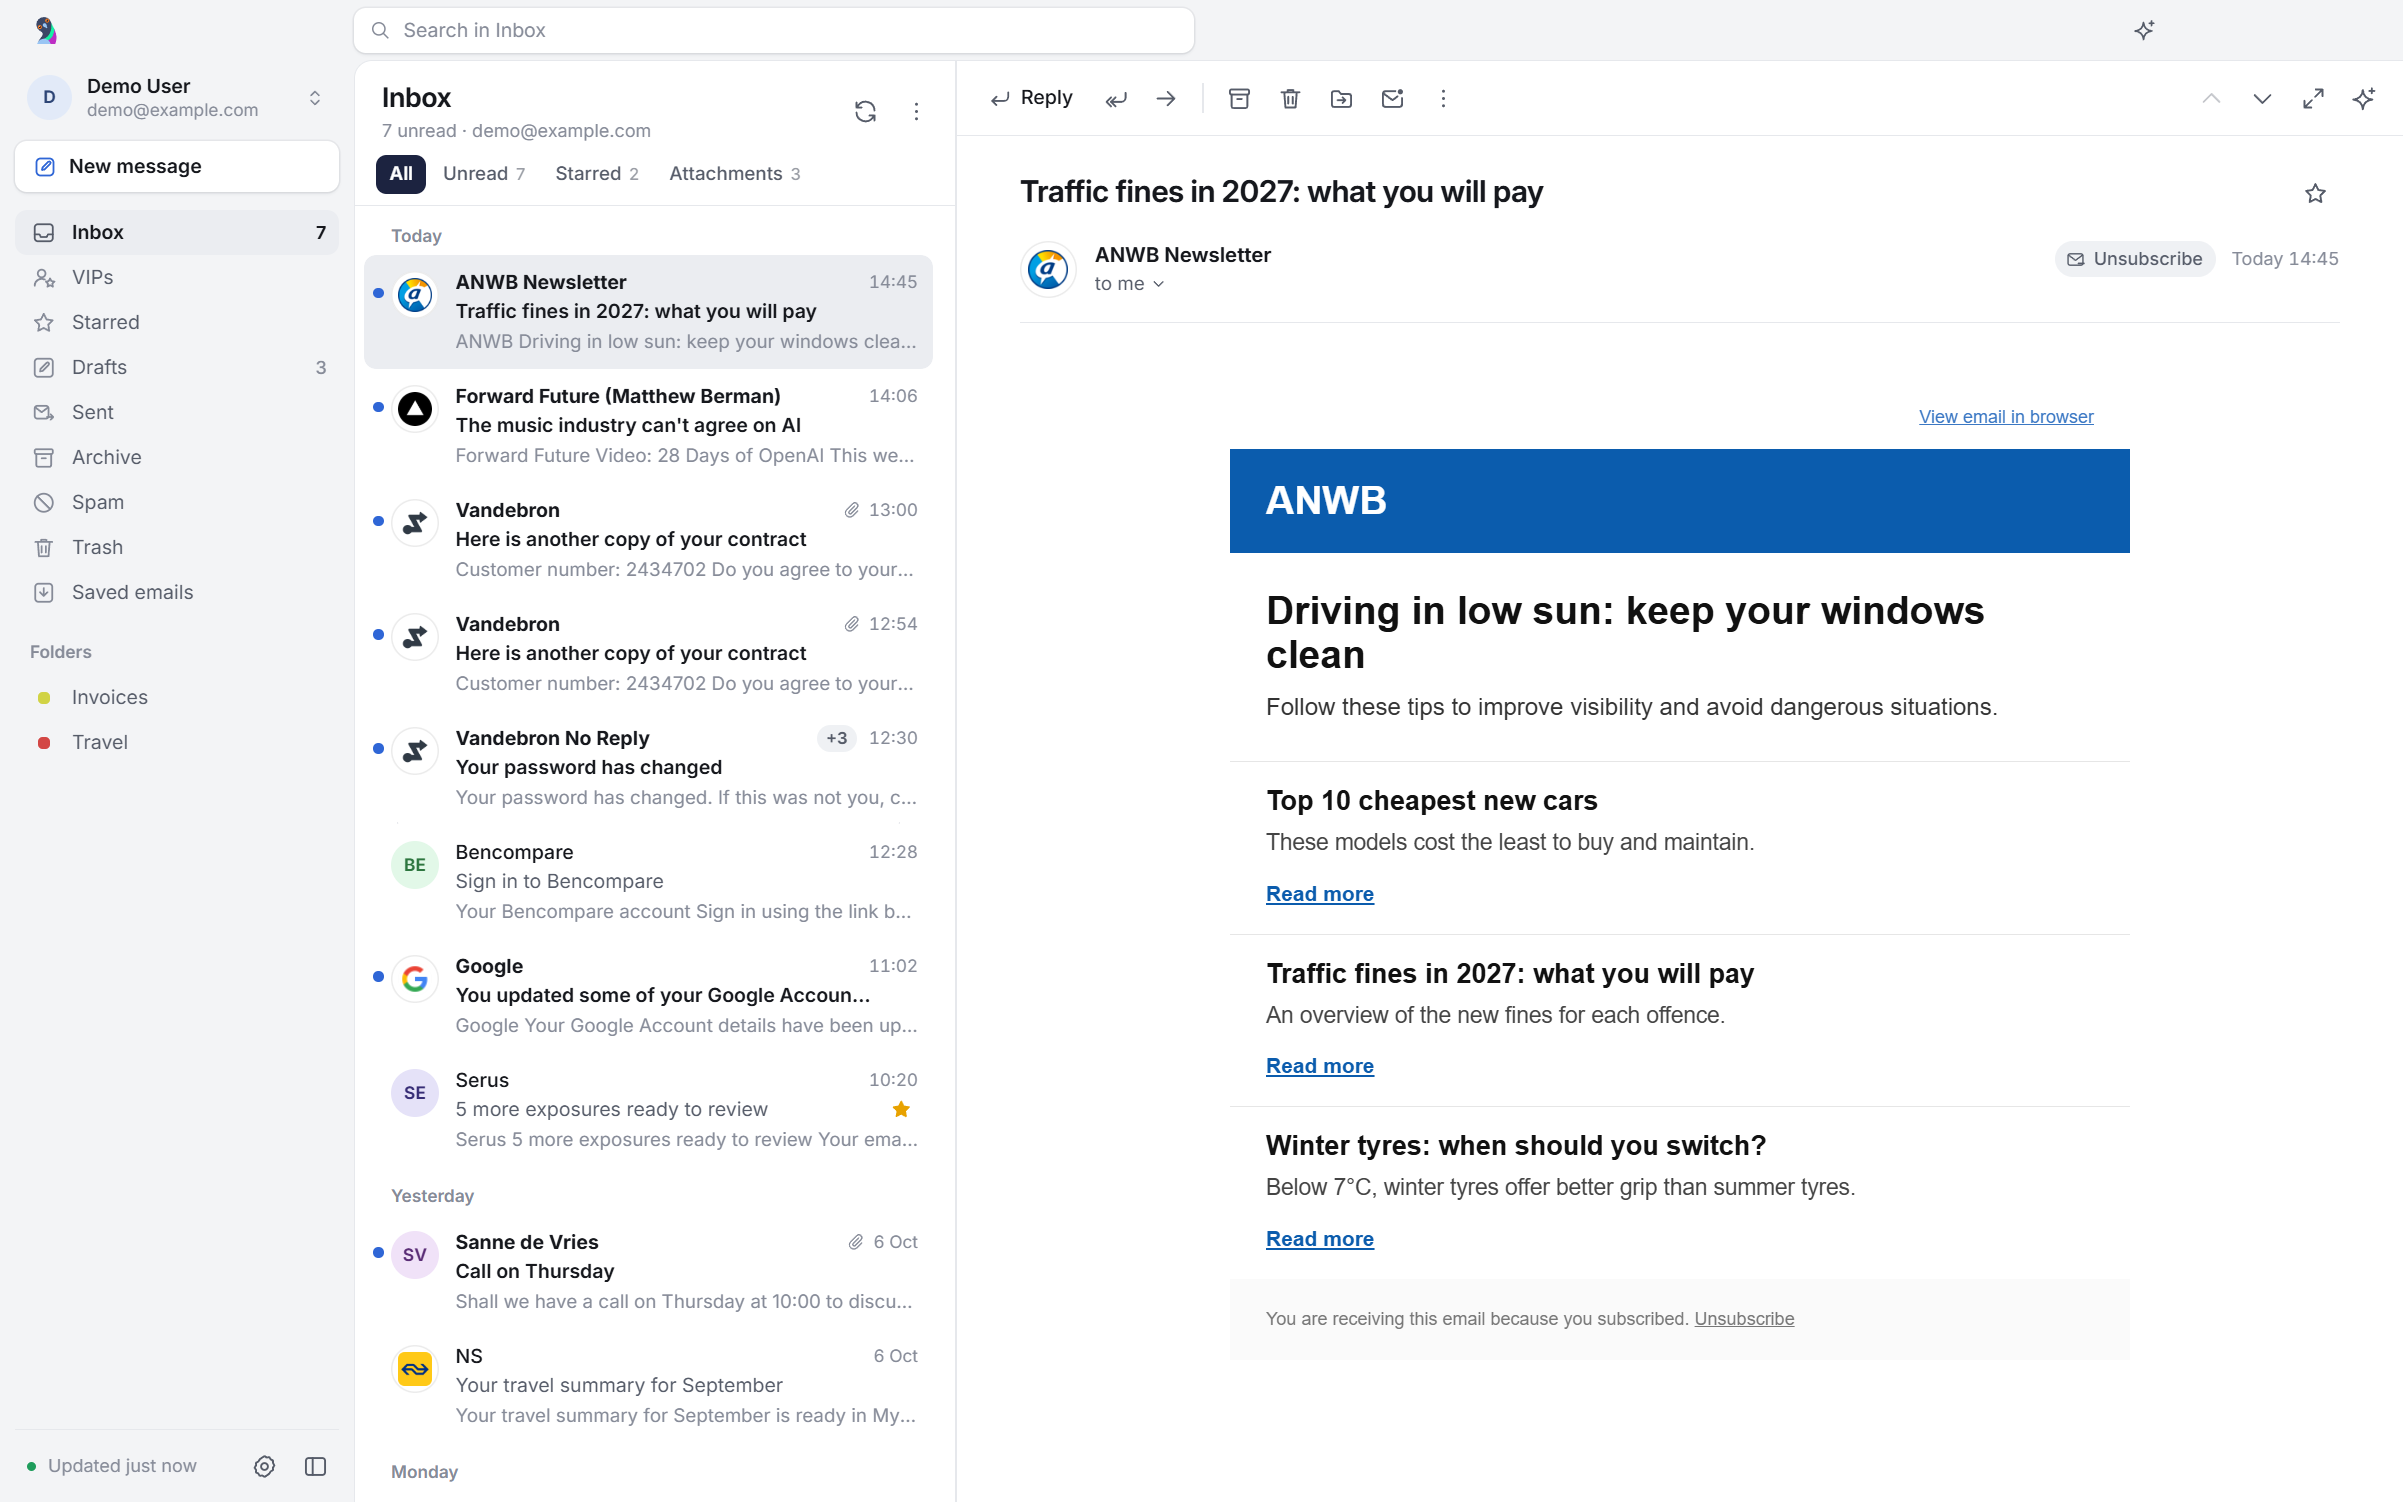
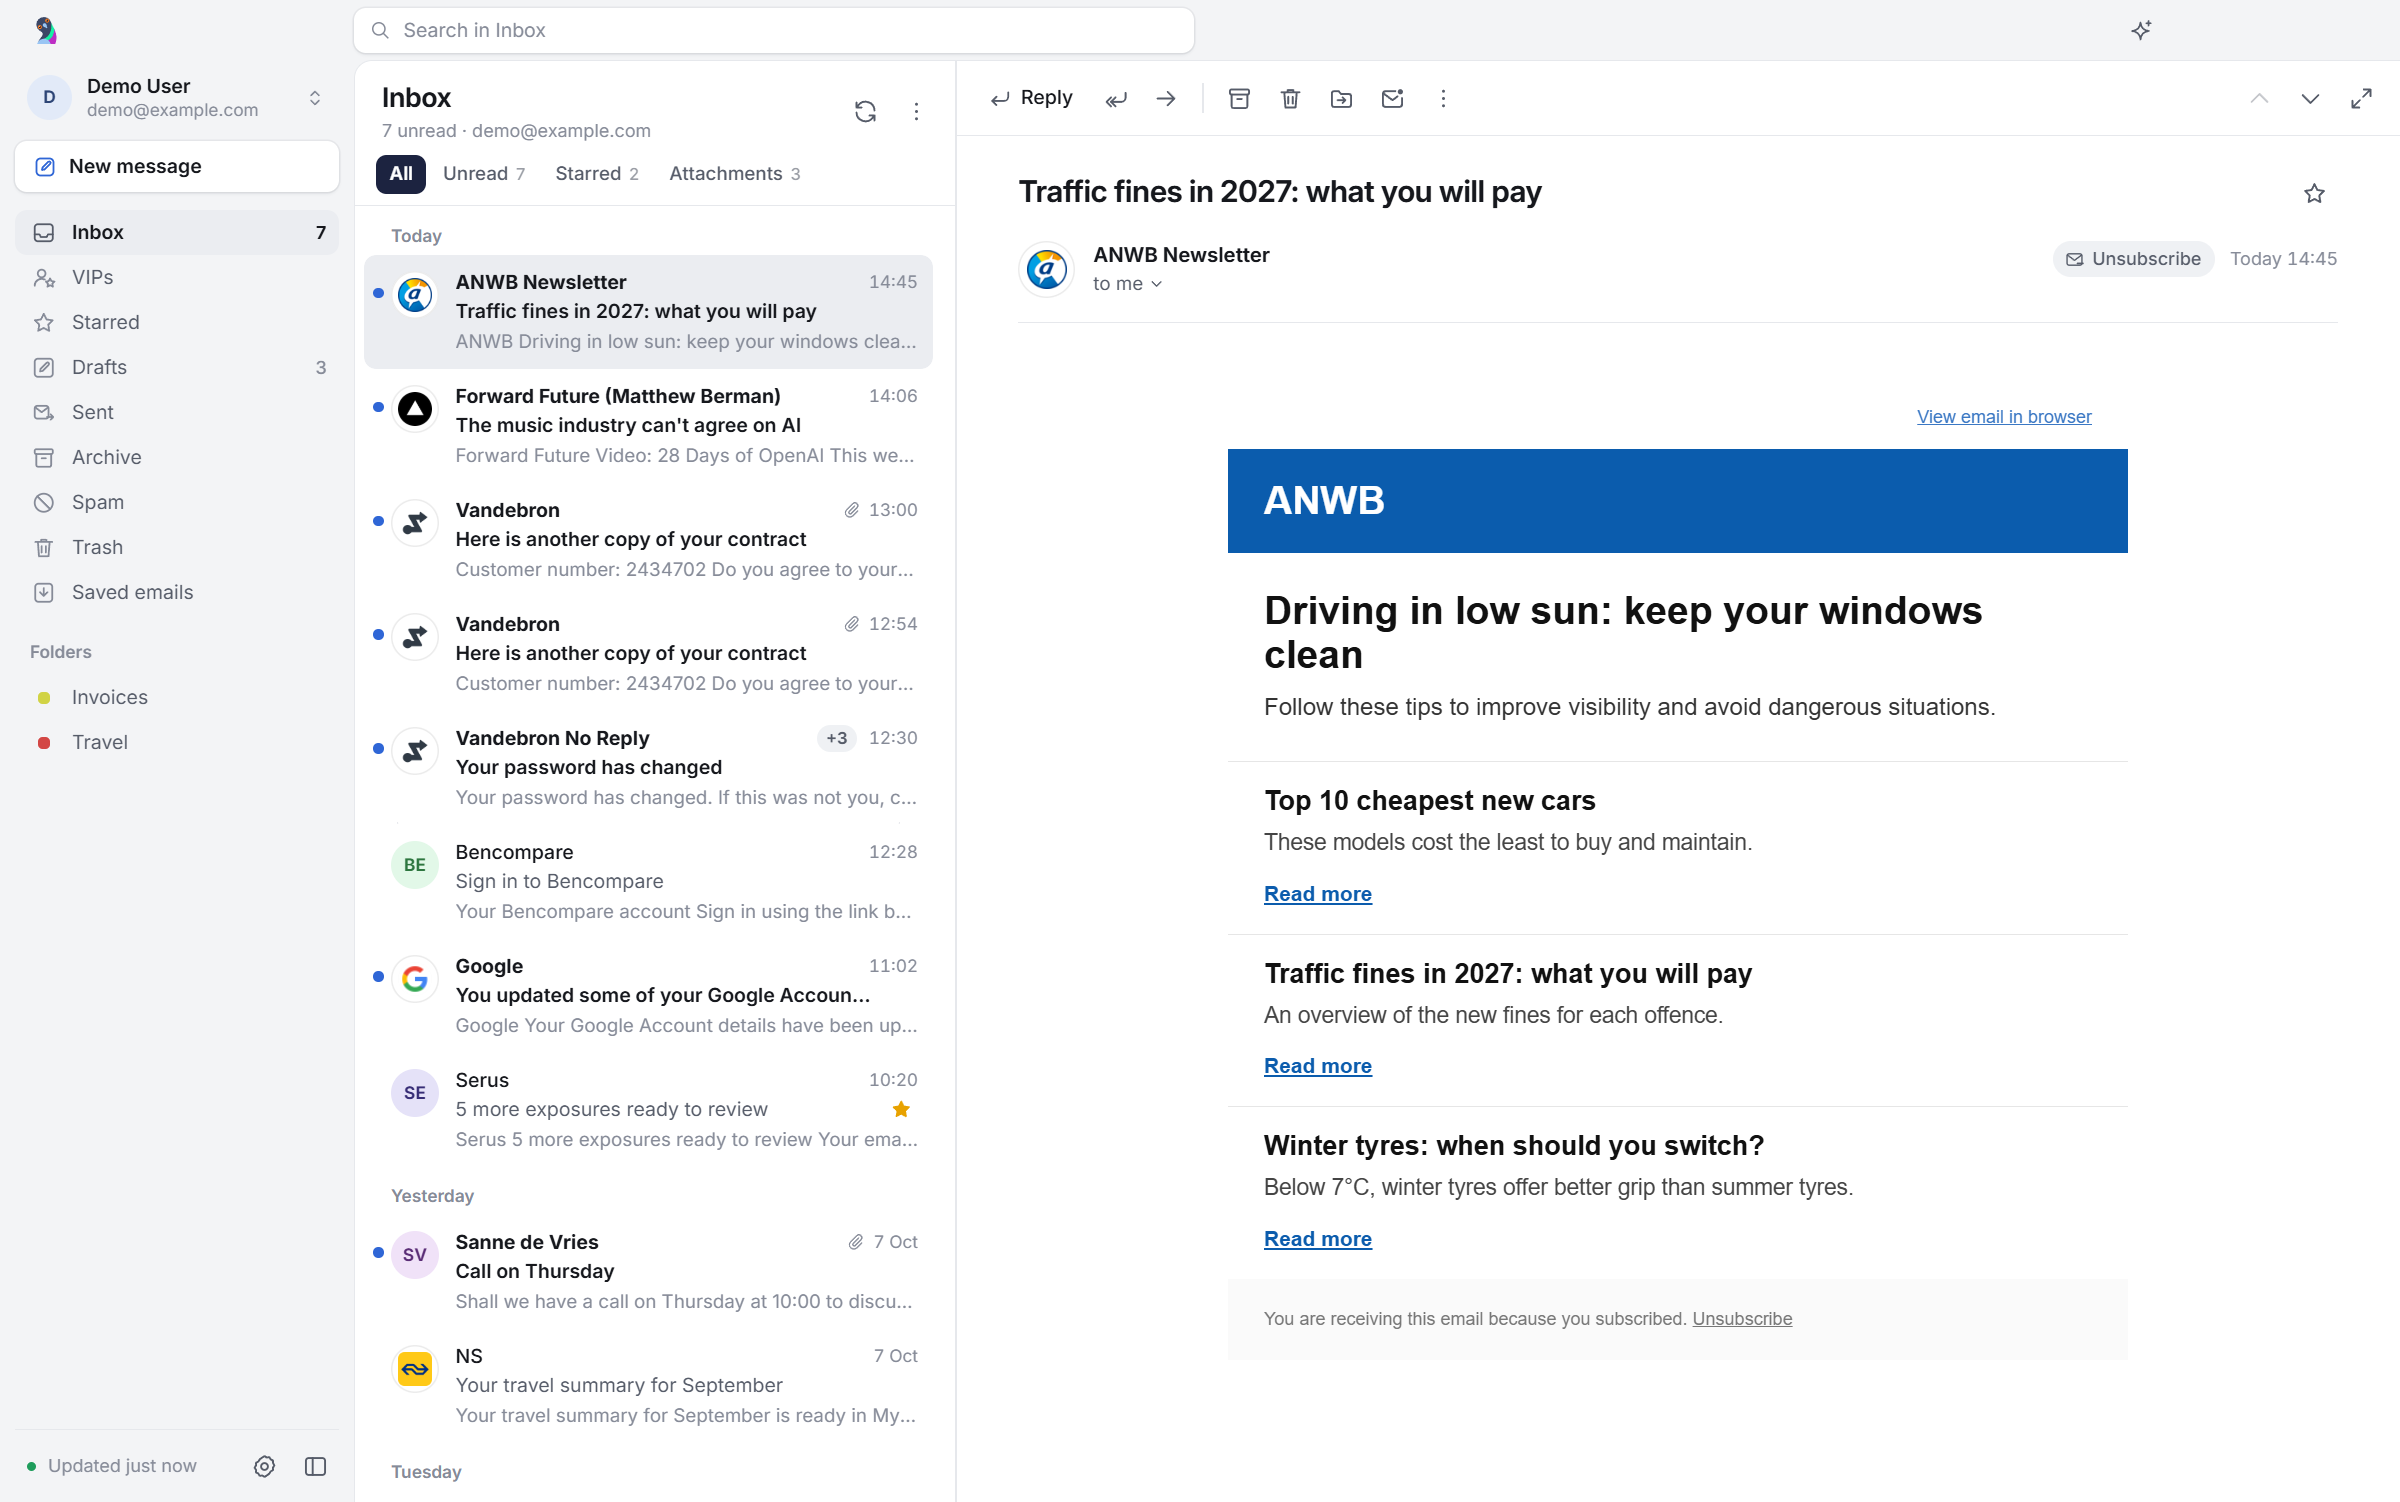
Show one sparkle button for the chat panel
With an email open, the sparkle showed twice: in the title bar and in
the reading pane toolbar. Both opened the same panel. The title bar
button stays, since it is there with or without an open email, and the
panel picks up the open email by itself.

Closes #6

diff --git a/src/renderer/app.js b/src/renderer/app.js
@@ -339,7 +339,7 @@ function renderShell() {
   root.style.setProperty('--sidebar-w', `${collapsed ? RAIL_W : SIDEBAR_W}px`);
   root.style.setProperty('--list-w', `${listWidth()}px`);
   root.style.setProperty('--agent-w', `${agentWidth()}px`);
-  for (const b of $$('[data-agent-toggle], [data-reader="agent"]')) {
+  for (const b of $$('[data-agent-toggle]')) {
     b.classList.toggle('on', Boolean(prefs.agentOpen));
     b.setAttribute('aria-pressed', String(Boolean(prefs.agentOpen)));
   }
@@ -360,7 +360,7 @@ function loadAgentPanel() {
     .catch((err) => console.error('The chat panel did not load:', err));
 }
 
-// focus: move the keyboard to the chat input (Ctrl+J and the toolbar buttons do).
+// focus: move the keyboard to the chat input (Ctrl+J and the title bar button do).
 function setAgentOpen(open, { focus = false } = {}) {
   const rail = sidebarCollapsed();
   prefs.agentOpen = Boolean(open);
@@ -1788,8 +1788,7 @@ function readerBar(m) {
     <span class="spacer"></span>
     <button class="icon-btn" data-reader="prev" data-i18n-title="reader.navigation.previous" title="${esc(t('reader.navigation.previous'))}">${icons.up}</button>
     <button class="icon-btn" data-reader="next" data-i18n-title="reader.navigation.next" title="${esc(t('reader.navigation.next'))}">${icons.down}</button>
-    <button class="icon-btn wide-only" data-reader="expand" title="${S.expanded ? t('reader.navigation.showList') : t('reader.navigation.expand')}">${S.expanded ? icons.collapse : icons.expand}</button>
-    <button class="icon-btn ${prefs.agentOpen ? 'on' : ''}" data-reader="agent" data-i18n-title="agent.panel.ask" title="${esc(t('agent.panel.ask'))}" aria-pressed="${Boolean(prefs.agentOpen)}">${icons.sparkle}</button>`;
+    <button class="icon-btn wide-only" data-reader="expand" title="${S.expanded ? t('reader.navigation.showList') : t('reader.navigation.expand')}">${S.expanded ? icons.collapse : icons.expand}</button>`;
   const back = `<button class="icon-btn narrow-only" data-reader="back" data-i18n-title="reader.navigation.back" title="${esc(t('reader.navigation.back'))}">${icons.back}</button>`;
   if (draft) {
     return `<div class="reader-bar" role="toolbar" data-i18n-aria-label="reader.actions.label" aria-label="${esc(t('reader.actions.label'))}">${back}
@@ -2006,8 +2005,6 @@ function bindReader() {
         return removeMessages([item]);
       case 'more':
         return showMenu(btn, messageMenu(item));
-      case 'agent':
-        return toggleAgent();
     }
   });
 }

diff --git a/test/e2e/agent.spec.js b/test/e2e/agent.spec.js
@@ -445,11 +445,22 @@ test('an email left out of a new chat comes back with one click, and goes with t
 
 test('the panel docks in wide windows, slides over the reader in narrower ones and fills narrow ones', async () => {
   await openChat('Call on Thursday');
-  await expect(win.locator('.titlebar [data-agent-toggle]')).toHaveAttribute('aria-pressed', 'true');
-  await expect(win.locator('[data-reader="agent"]')).toHaveClass(/\bon\b/);
+  // The title bar holds the only sparkle button; the reading pane toolbar has none.
+  const toggle = win.locator('.titlebar [data-agent-toggle]');
+  await expect(toggle).toHaveAttribute('aria-pressed', 'true');
+  await expect(toggle).toHaveClass(/\bon\b/);
+  await expect(win.locator('.reader-bar [data-reader="agent"]')).toHaveCount(0);
   await expect(win.locator('.agent-divider')).toBeVisible();
   const style = () => pane().evaluate((el) => ({ position: getComputedStyle(el).position, width: el.getBoundingClientRect().width }));
   expect(await style()).toEqual({ position: 'static', width: 380 });
+  // The title bar button closes and opens the panel, like Ctrl+J.
+  await toggle.click();
+  await expect(pane()).toBeHidden();
+  await expect(toggle).toHaveAttribute('aria-pressed', 'false');
+  await expect(toggle).not.toHaveClass(/\bon\b/);
+  await toggle.click();
+  await expect(pane()).toBeVisible();
+  await expect(toggle).toHaveAttribute('aria-pressed', 'true');
 
   await app.evaluate(({ BrowserWindow }) => BrowserWindow.getAllWindows()[0].setSize(1100, 800));
   await expect.poll(async () => (await style()).position).toBe('absolute');
@@ -475,7 +486,7 @@ test('the panel docks in wide windows, slides over the reader in narrower ones a
   await win.screenshot({ path: path.join(SHOTS, '08-narrow.png') });
   await win.click('.agentpane [data-ap="close"]');
   await expect(pane()).toBeHidden();
-  await expect(win.locator('.titlebar [data-agent-toggle]')).toHaveAttribute('aria-pressed', 'false');
+  await expect(toggle).toHaveAttribute('aria-pressed', 'false');
 });
 
 test('keys inside the panel do not reach the mailbox shortcuts', async () => {

diff --git a/src/i18n/en.js b/src/i18n/en.js
@@ -437,10 +437,6 @@
     "message": "Add this email",
     "description": "Chat panel input: dashed chip in the email chip's place after you left the email out of a new chat; clicking it puts the email back (contextChip and attach in agent/panel.js)."
   },
-  "agent.panel.ask": {
-    "message": "Ask an agent about this email (Ctrl+J)",
-    "description": "Reader toolbar button tooltip that opens or closes the chat panel."
-  },
   "agent.panel.close": {
     "message": "Close chat",
     "description": "Chat panel header: tooltip of the button that closes the panel."

diff --git a/src/i18n/nl.js b/src/i18n/nl.js
@@ -110,7 +110,6 @@
   "agent.mail.undo": { "one": "{count} e-mail teruggezet", "other": "{count} e-mails teruggezet" },
   "agent.mail.unstar": { "one": "Ster weggehaald bij {count} e-mail", "other": "Ster weggehaald bij {count} e-mails" },
   "agent.panel.addContext": "Deze e-mail toevoegen",
-  "agent.panel.ask": "Een agent iets vragen over deze e-mail (Ctrl+J)",
   "agent.panel.close": "Chat sluiten",
   "agent.panel.history": "Recente chats",
   "agent.panel.jump": "Naar het nieuwste bericht",

diff --git a/docs/agents.md b/docs/agents.md
@@ -2,7 +2,7 @@
 
 Rukoo Mail has a chat panel next to the reading pane. In it you hand an email to an agent: a Hermes Agent such as Clark, Claude Code or Codex. The agent keeps its own tools, memory and integrations. Rukoo adds the chat and a small set of tools the agent uses to read your mail and change what is on your screen. It writes the reply draft, shows a plan or its sources, and asks you before anything happens.
 
-Open the panel with the sparkle button in the title bar or the reading pane toolbar, or with `Ctrl+J`. While it is open the folders shrink to a rail, so you see the list, the email and the chat. The rail button brings the folders back, and the reading pane's expand button hides the list too, leaving the email and the chat.
+Open the panel with the sparkle button in the title bar or with `Ctrl+J`. While it is open the folders shrink to a rail, so you see the list, the email and the chat. The rail button brings the folders back, and the reading pane's expand button hides the list too, leaving the email and the chat.
 
 ![The chat panel next to a reply that Clark drafted](screenshots/dark/11-agent-reply.png)
 
